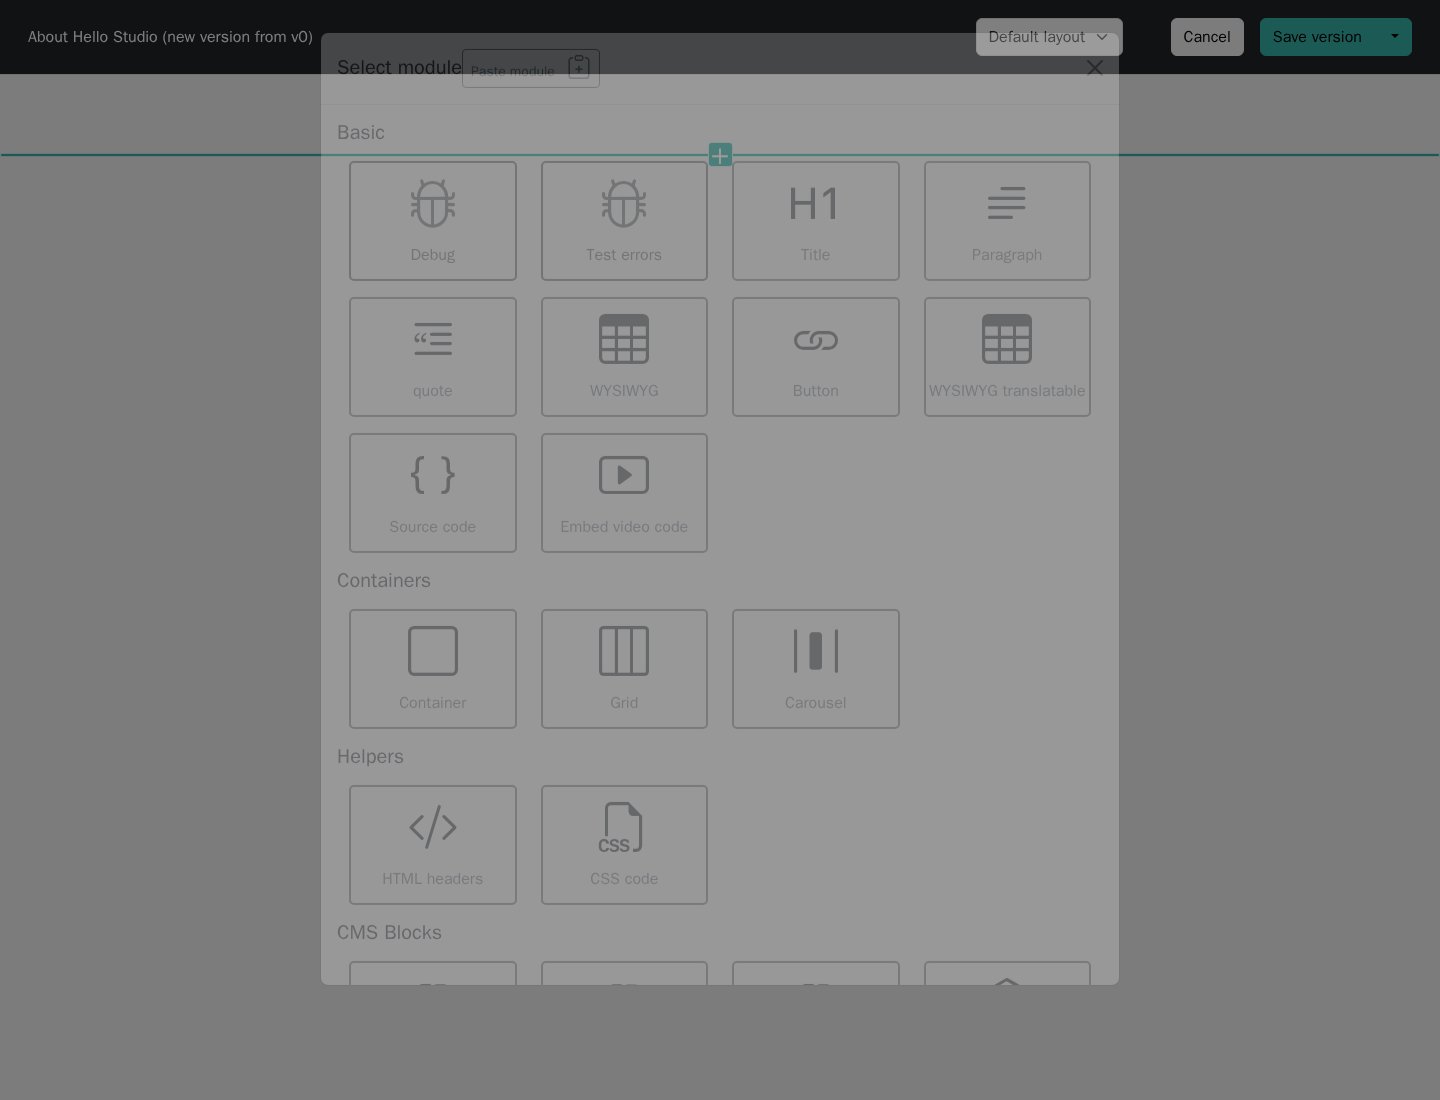
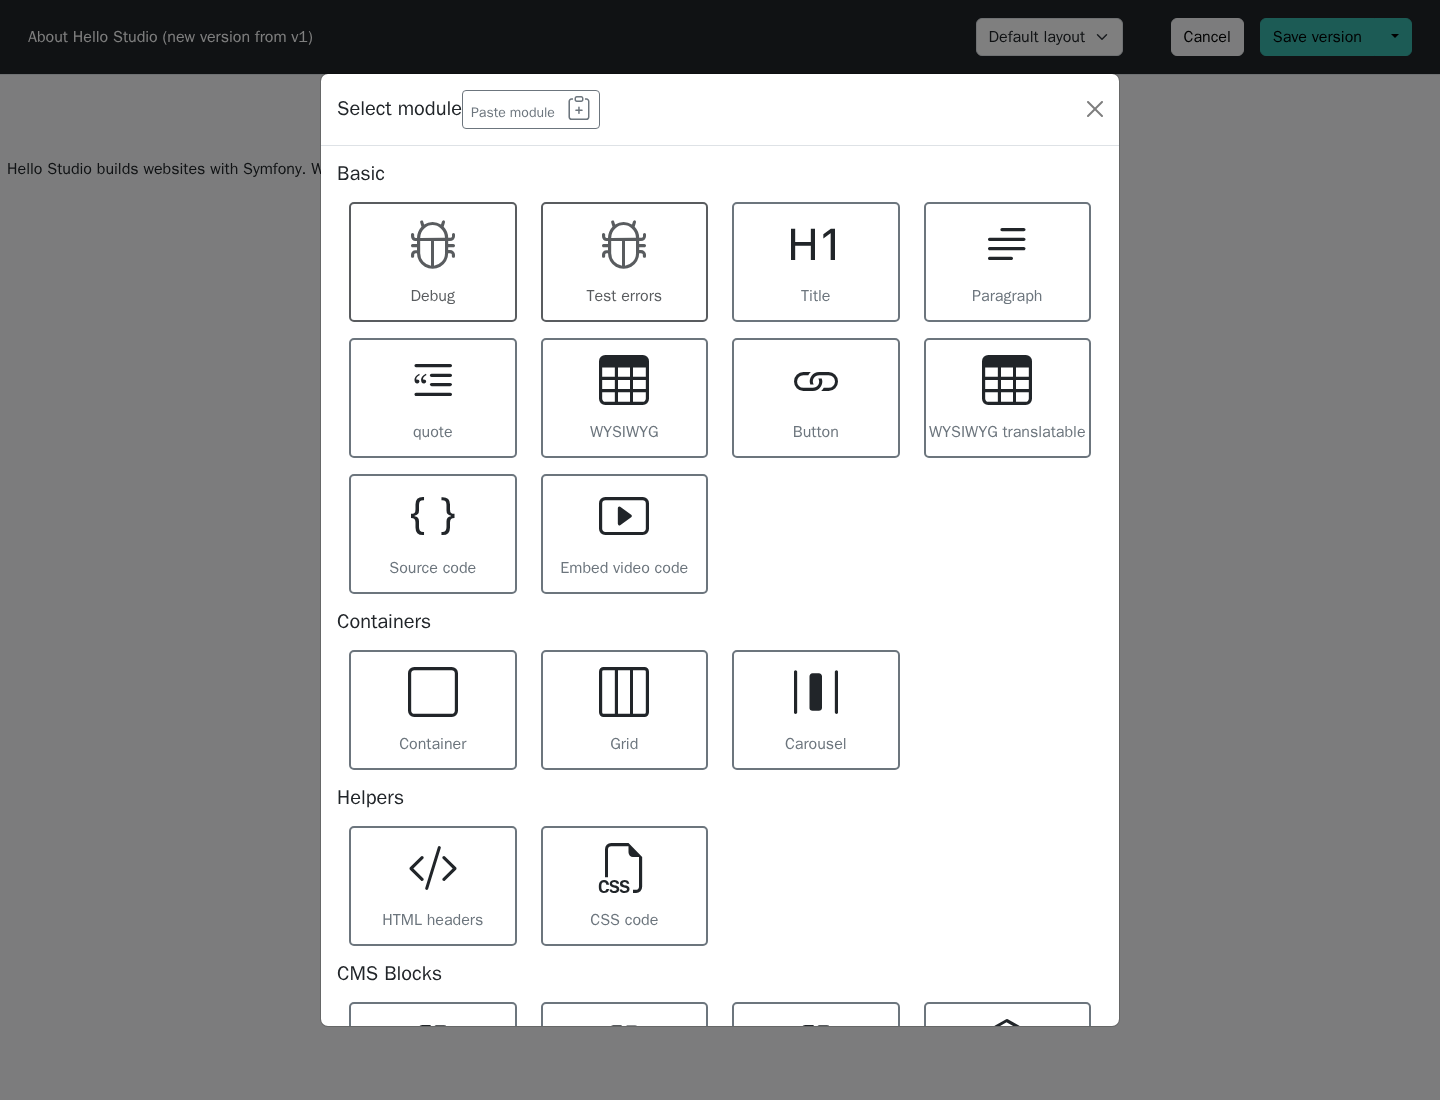
Capture the module picker after its opening transition

diff --git a/README.md b/README.md
@@ -72,7 +72,7 @@ Review examples against the selected package branch. State whether a configurati
 
 Use relative links to indexed Markdown files, including explicit heading anchors when linking to a subsection. Keep screenshots local to the guide's `.files/` directory. The documentation server's tests check version-aware links, navigation, configuration alternatives, and rendering; see its repository README for the commands.
 
-Screenshots show real interfaces from the guide's package branch. Refresh them when the UI changes, using fictitious content and accounts. Keep older branches' images independent. Reference applications are read-only sources for generic patterns; never copy customer data, private configuration or assets into examples or captures. Keep page coverage and runtime findings in review reports and the associated issue, with a clear distinction between executed workflows, mocks and checks that remain unverified.
+Screenshots show real interfaces from the guide's package branch. Refresh them when the UI changes, using fictitious content and accounts. For modal captures, wait for the opening transition, fonts and images, then allow a few seconds for content to settle. Inspect the result before publishing; a visible modal may still be animating or loading. Keep older branches' images independent. Reference applications are read-only sources for generic patterns; never copy customer data, private configuration or assets into examples or captures. Keep page coverage and runtime findings in review reports and the associated issue, with a clear distinction between executed workflows, mocks and checks that remain unverified.
 
 We will be happy to receive your contributions to this documentation. Feel free to fork the repository, make your
 changes and send a pull request.

diff --git a/AGENTS.md b/AGENTS.md
@@ -73,6 +73,7 @@ Working rules for documentation changes in this repository.
 ## Screenshots and runtime verification
 
 - Capture real interfaces from applications running the documentation's target package branch. Refresh screenshots when UI styles or workflows change; do not invent interfaces or use mockups as proof of functionality.
+- Before capturing a modal, wait for its opening transition to finish (`shown.bs.modal` for Bootstrap), allow a few seconds for asynchronous content to settle, and wait for fonts and images. Inspect the final screenshot; visibility alone does not prove the modal is ready, and a faded or partially loaded dialog must not be published.
 - Store screenshots in the relevant guide's `.files/` directory and use relative Markdown image links. Keep images in the same Git branch as their guide; do not hardcode another branch's raw image URL.
 - Use isolated application copies, fresh test databases, fictitious accounts and synthetic content. Never reset a developer or customer database to prepare documentation captures.
 - Execute documented commands and configurations, then check the affected forms, generated output, public routes and main user actions. Record any extra setup or workaround instead of implying the original sequence passed unchanged.
